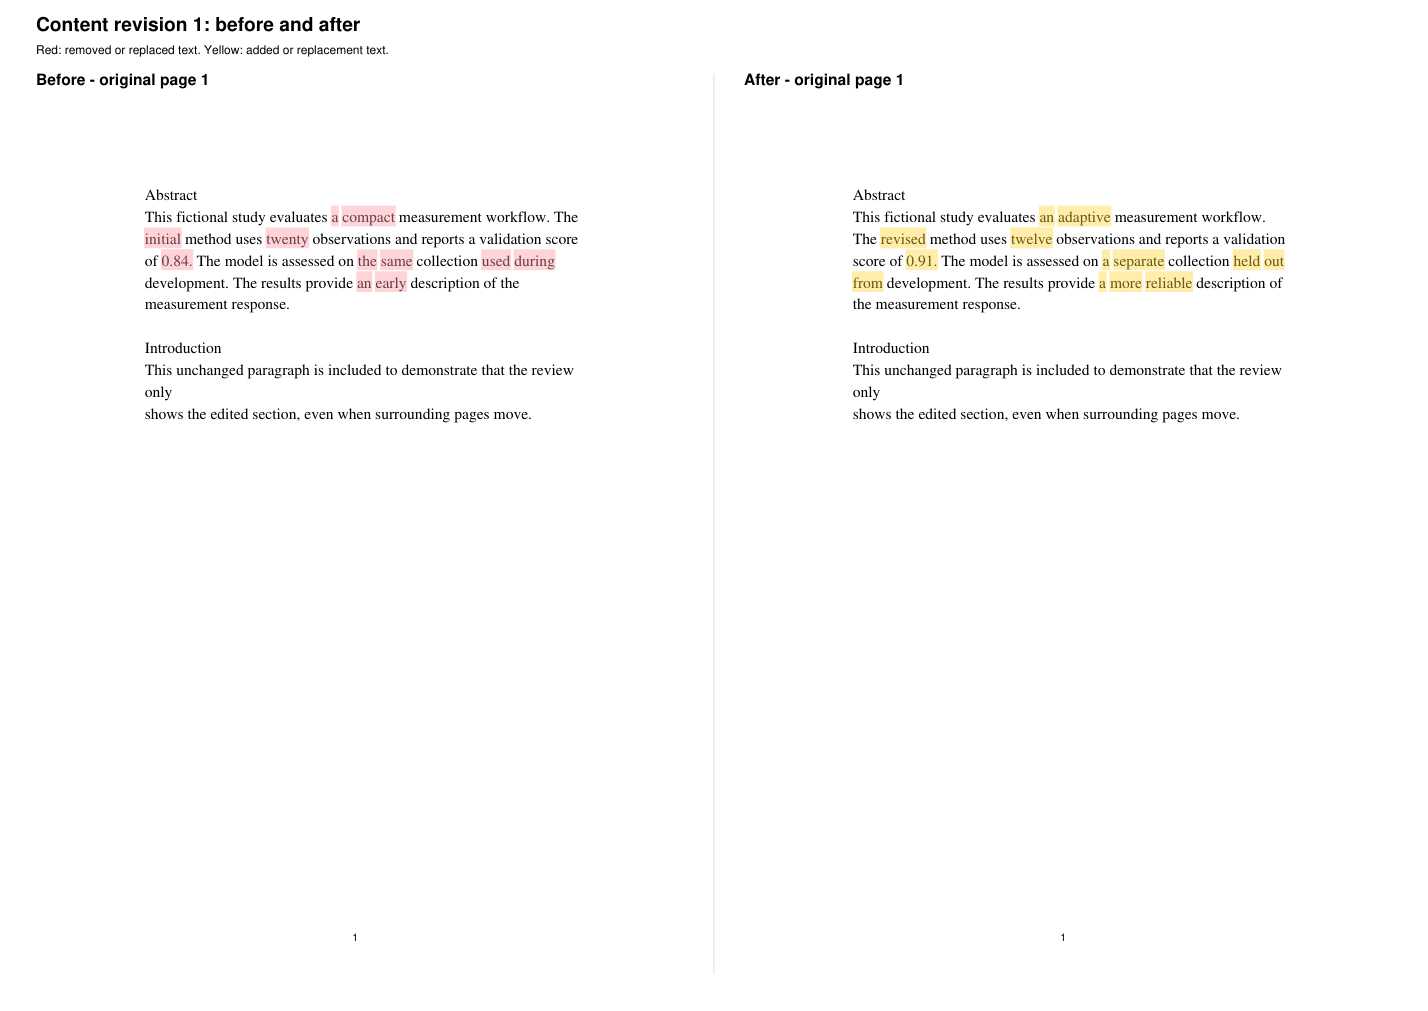
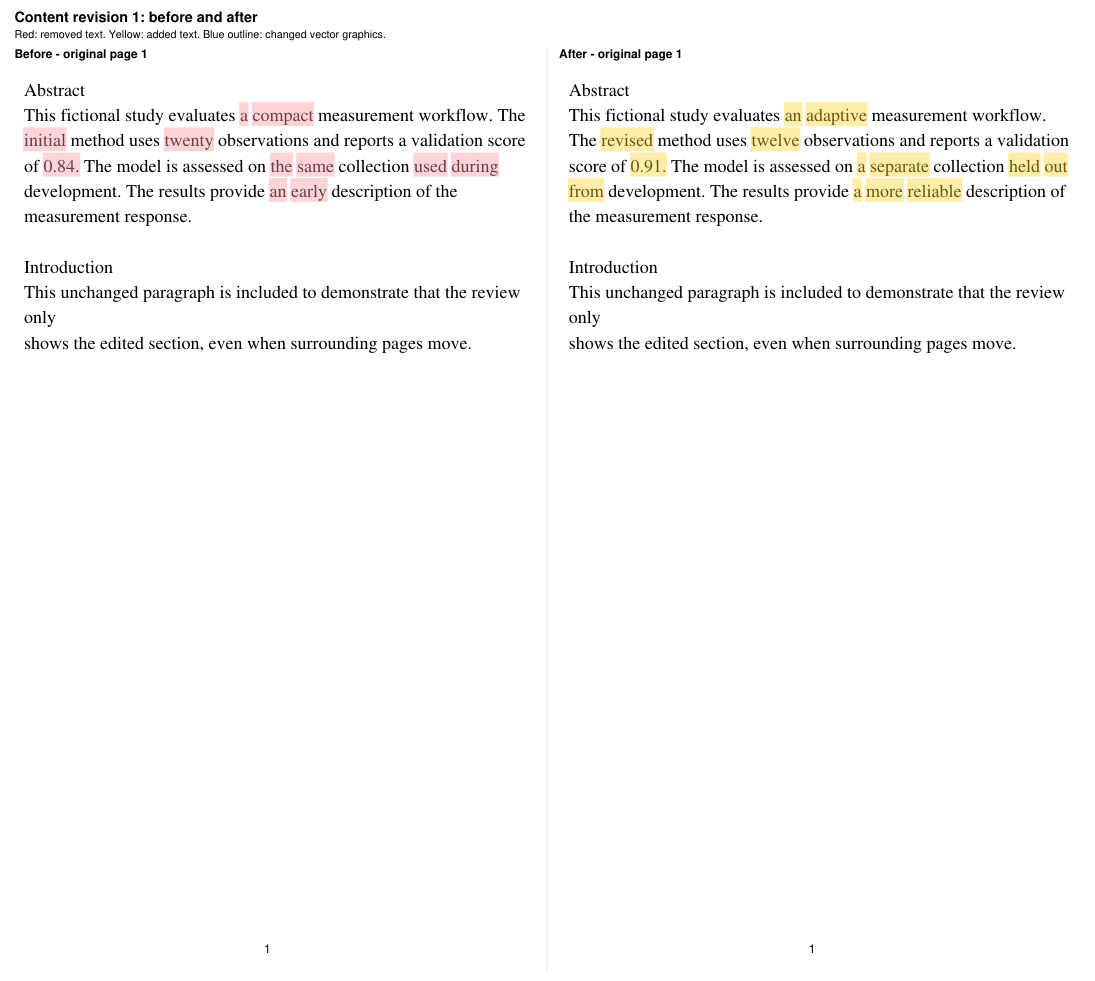
Show full pages at a consistent scale

Changed region(s): [[0.0, 0.0, 0.4658, 0.4281], [0.4968, 0.0306, 0.9936, 0.4281]]

diff --git a/build_comparison.py b/build_comparison.py
@@ -9,8 +9,9 @@ from pathlib import Path
 
 import fitz
 from backend import compare
+from graphics_diff import compare_graphics
 
-RECIPE = 'pdf-content-diff-0.6.0-full-pages'
+RECIPE = 'pdf-content-diff-0.7.0-vector-pages'
 
 
 def digest(file):
@@ -41,7 +42,7 @@ def build(old_file, new_file, output):
     old_file, new_file, output = map(Path, (old_file, new_file, output))
     if output.resolve() in (old_file.resolve(), new_file.resolve()):
         raise ValueError('Output must differ from both source PDFs')
-    fingerprint = digest(Path(__file__)) + digest(Path(__file__).with_name('backend.py'))
+    fingerprint = digest(Path(__file__)) + digest(Path(__file__).with_name('backend.py')) + digest(Path(__file__).with_name('graphics_diff.py'))
     signature = RECIPE + ':' + digest(old_file) + ':' + digest(new_file) + ':' + fingerprint
     if output.exists():
         cached = fitz.open(output)
@@ -53,10 +54,40 @@ def build(old_file, new_file, output):
             return {'output': str(output), 'cached': True, 'bytes': output.stat().st_size,
                     'seconds': round(time.perf_counter()-started, 3)}
     result = compare(str(old_file), str(new_file))
-    if not result['hasText']:
-        raise ValueError('Both PDFs must contain extractable text')
     old, new = fitz.open(old_file), fitz.open(new_file)
     docs = {'left': old, 'right': new}
+    left_graphics, right_graphics = compare_graphics(old, new)
+    if not result['hasText'] and not (left_graphics or right_graphics) and not all(
+            any(p.get_drawings() for p in doc) for doc in docs.values()):
+        raise ValueError('Both PDFs must contain extractable text or changed vector graphics')
+    components = groups(result)
+    for side, records in [('left',left_graphics),('right',right_graphics)]:
+        for record in records:
+            p = record['page']
+            nodes = {(side,p)}
+            if p < len(docs['right' if side == 'left' else 'left']):
+                nodes.add(('right' if side == 'left' else 'left',p))
+            touched = [c for c in components if c & nodes]
+            for c in touched: nodes |= c; components.remove(c)
+            components.append(nodes)
+            box = (fitz.Rect(record['rect']) + (-2,-2,2,2)) & docs[side][p].rect
+            docs[side][p].draw_rect(box,color=(.10,.40,.95),width=1.3,overlay=True)
+    components.sort(key=lambda c: min(p for _,p in c))
+    # Remove only the common outer margin, using one union across BOTH documents.
+    # The crop is independent of edits, so body text has one size on every sheet.
+    content = None
+    for doc in docs.values():
+        for source in doc:
+            boxes = [fitz.Rect(block[:4]) for block in source.get_text('blocks')]
+            boxes += [d['rect'] for d in source.get_drawings()]
+            for box in boxes:
+                if content is None: content = fitz.Rect(box)
+                else: content |= box
+    clips = {side: [(content + (-8,-8,8,8)) & p.rect if content else p.rect for p in doc]
+             for side,doc in docs.items()}
+    panel_width = max(c.width for values in clips.values() for c in values)
+    panel_height = max(c.height for values in clips.values() for c in values)
+    sheet_width, sheet_height = 2*panel_width+44, panel_height+68
     for side, doc in docs.items():
         colour = (1, .60, .64) if side == 'left' else (1, .84, .20)
         for page, marks in result[side]['marks'].items():
@@ -65,32 +96,32 @@ def build(old_file, new_file, output):
                 doc[page].draw_rect(r, color=None, fill=colour, fill_opacity=.42, overlay=True)
     review = fitz.open()
     # One document-wide scale, independent of changed-region size and page count.
-    scale = min(min(540 / page.rect.width, 728 / page.rect.height)
-                for doc in docs.values() for page in doc)
-    for index, nodes in enumerate(groups(result)):
+    scale = 1.0
+    for index, nodes in enumerate(components):
         originals = {side: sorted(p for s, p in nodes if s == side)
                      for side in ('left', 'right')}
         # Never squeeze multiple original pages into a single review sheet.
         for part in range(max(map(len, originals.values()))):
-            page = review.new_page(width=1190, height=842)
-            page.insert_text((30,26), f'Content revision {index+1}: before and after', fontname='hebo', fontsize=16)
-            page.insert_text((30,45), 'Red: removed or replaced text. Yellow: added or replacement text.', fontsize=10)
-            for side, x, label in [('left',30,'Before'), ('right',620,'After')]:
+            page = review.new_page(width=sheet_width, height=sheet_height)
+            page.insert_text((12,18), f'Content revision {index+1}: before and after', fontname='hebo', fontsize=12)
+            page.insert_text((12,32), 'Red: removed text. Yellow: added text. Blue outline: changed vector graphics.', fontsize=9)
+            for side, x, label in [('left',12,'Before'), ('right',panel_width+32,'After')]:
                 if part >= len(originals[side]):
-                    page.insert_text((x,71), f'{label} - no corresponding changed page', fontname='hebo', fontsize=13)
+                    page.insert_text((x,48), f'{label} - no corresponding changed page', fontname='hebo', fontsize=10)
                     continue
                 p = originals[side][part]
                 source = docs[side][p]
-                page.insert_text((x,71), f'{label} - original page {p+1}', fontname='hebo', fontsize=13)
-                width, height = source.rect.width*scale, source.rect.height*scale
-                left = x + (540-width)/2
-                destination = fitz.Rect(left,84,left+width,84+height)
+                page.insert_text((x,48), f'{label} - original page {p+1}', fontname='hebo', fontsize=10)
+                clip = clips[side][p]
+                width, height = clip.width*scale, clip.height*scale
+                left = x + (panel_width-width)/2
+                destination = fitz.Rect(left,56,left+width,56+height)
                 if source.get_contents():
-                    page.show_pdf_page(destination, docs[side], p)
-            page.draw_line((595,61),(595,812),color=(.8,.8,.8),width=.5)
+                    page.show_pdf_page(destination, docs[side], p,clip=clip)
+            page.draw_line((panel_width+22,40),(panel_width+22,sheet_height-8),color=(.8,.8,.8),width=.5)
     if not len(review):
         page = review.new_page(width=1190,height=842)
-        page.insert_text((30,40),'No text changes detected.',fontsize=16)
+        page.insert_text((30,40),'No text or vector graphics changes detected.',fontsize=16)
     review.set_metadata({'title':'PDF content comparison','subject':signature,
                          'keywords':'Ignore margin line numbers, page numbers and text reflow'})
     # Subset original fonts and keep vector text, with no page rasterization.
@@ -114,7 +145,7 @@ def build(old_file, new_file, output):
     page_count = len(review)
     review.close(); old.close(); new.close()
     return {'output':str(output),'cached':False,'bytes':output.stat().st_size,
-            'pages':page_count,'hunks':len(result['hunks']),
+            'pages':page_count,'hunks':len(result['hunks']),'graphicsChanges':len(left_graphics)+len(right_graphics),
             'seconds':round(time.perf_counter()-started,3)}
 
 

diff --git a/graphics_diff.py b/graphics_diff.py
@@ -1,0 +1,64 @@
+"""Translation-invariant comparison of connected vector drawing groups."""
+import collections
+import hashlib
+import json
+import fitz
+
+
+def drawings(doc):
+    records = []
+    for number, page in enumerate(doc):
+        paths = page.get_drawings()
+        # Dense scientific plots may contain tens of thousands of overlapping
+        # paths. Compare their page-level vector group in linear time instead
+        # of running a quadratic connectivity sweep. A whole-page translation
+        # remains invariant; independent figure movements can be reported.
+        dense = len(paths) > 2000
+        parents = list(range(len(paths)))
+        if dense: parents = [0] * len(paths)
+        def root(i):
+            while parents[i] != i:
+                parents[i] = parents[parents[i]]; i = parents[i]
+            return i
+        # Sweep by x to avoid comparing distant objects on the same page.
+        active = []
+        for i in ([] if dense else sorted(range(len(paths)), key=lambda i: paths[i]['rect'].x0)):
+            box = paths[i]['rect'] + (-3,-3,3,3)
+            active = [j for j in active if paths[j]['rect'].x1+3 >= box.x0]
+            for j in active:
+                if box.intersects(paths[j]['rect'] + (-3,-3,3,3)):
+                    a, b = root(i), root(j)
+                    parents[a] = b
+            active.append(i)
+        clusters = collections.defaultdict(list)
+        for i, item in enumerate(paths): clusters[root(i)].append(item)
+        for cluster in clusters.values():
+            box = fitz.Rect(cluster[0]['rect'])
+            for item in cluster[1:]: box |= item['rect']
+            def normalize(value):
+                if isinstance(value, fitz.Point): return [round(value.x-box.x0,2),round(value.y-box.y0,2)]
+                if isinstance(value, fitz.Rect): return [round(value.x0-box.x0,2),round(value.y0-box.y0,2),round(value.x1-box.x0,2),round(value.y1-box.y0,2)]
+                if isinstance(value, fitz.Quad): return normalize([value.ul,value.ur,value.ll,value.lr])
+                if isinstance(value, (list,tuple)): return [normalize(v) for v in value]
+                if isinstance(value,float): return round(value,2)
+                return value
+            signatures = []
+            for item in cluster:
+                fields = {k:normalize(item.get(k)) for k in ('items','type','color','fill','width','dashes','lineCap','lineJoin','closePath','even_odd','fill_opacity','stroke_opacity')}
+                signatures.append(json.dumps(fields,sort_keys=True))
+            signature = hashlib.sha256(json.dumps(sorted(signatures)).encode()).hexdigest()
+            records.append({'page':number,'rect':list(box),'signature':signature})
+    return records
+
+
+def compare_graphics(old, new):
+    left, right = drawings(old), drawings(new)
+    common = collections.Counter(r['signature'] for r in left) & collections.Counter(r['signature'] for r in right)
+    def remaining(records):
+        available = common.copy(); result = []
+        for record in records:
+            key = record['signature']
+            if available[key]: available[key] -= 1
+            else: result.append(record)
+        return result
+    return remaining(left), remaining(right)

diff --git a/tests/test_diff.py b/tests/test_diff.py
@@ -86,7 +86,7 @@ class PDFChecks(unittest.TestCase):
     def test_no_changes_and_no_text(self):
         pdf(self.old,'Same text');pdf(self.new,'Same text')
         build(self.old,self.new,self.out)
-        with fitz.open(self.out) as doc:self.assertIn('No text changes',doc[0].get_text())
+        with fitz.open(self.out) as doc:self.assertIn('No text or vector graphics changes',doc[0].get_text())
         blank=self.root/'blank.pdf';pdf(blank,'')
         with self.assertRaises(ValueError):build(self.old,blank,self.root/'blank-review.pdf')
 
@@ -110,7 +110,25 @@ class PDFChecks(unittest.TestCase):
                         sizes.extend(s['size'] for s in line['spans'] if 'bottom context' in s['text'])
             self.assertEqual(len(sizes),6)
             self.assertLess(max(sizes)-min(sizes),0.001)
-            self.assertLess(max(sizes),12)
+            self.assertAlmostEqual(max(sizes),12,places=3)
+
+    def test_vector_geometry_color_and_movement(self):
+        def drawing(file,offset=0,width=80,color=(1,0,0),text=True):
+            doc=fitz.open();page=doc.new_page()
+            if text: page.insert_text((100,80),'Unchanged text')
+            page.draw_rect(fitz.Rect(100+offset,150+offset,100+offset+width,230+offset),color=color,fill=color)
+            doc.save(file);doc.close()
+        drawing(self.old);drawing(self.new,offset=50)
+        self.assertEqual(build(self.old,self.new,self.out)['graphicsChanges'],0)
+        drawing(self.new,width=90)
+        self.assertEqual(build(self.old,self.new,self.out)['graphicsChanges'],2)
+        drawing(self.new,color=(0,1,0))
+        self.assertEqual(build(self.old,self.new,self.out)['graphicsChanges'],2)
+        drawing(self.old,text=False);drawing(self.new,width=90,text=False)
+        info=build(self.old,self.new,self.out)
+        self.assertEqual(info['graphicsChanges'],2)
+        with fitz.open(self.out) as doc:
+            self.assertGreater(len(doc[0].get_drawings()),2)
 
 
 if __name__=='__main__':unittest.main()

diff --git a/scripts/package_vsix.py b/scripts/package_vsix.py
@@ -17,6 +17,6 @@ content = '''<?xml version="1.0" encoding="utf-8"?><Types xmlns="http://schemas.
 with ZipFile(target, 'w', ZIP_DEFLATED) as z:
     z.writestr('extension.vsixmanifest', manifest)
     z.writestr('[Content_Types].xml', content)
-    for name in ['package.json','extension.js','auto_refresh.js','backend.py','build_comparison.py','README.md','README.zh-CN.md','CHANGELOG.md','LICENSE','requirements.txt','docs/preview.png']:
+    for name in ['package.json','extension.js','auto_refresh.js','backend.py','graphics_diff.py','build_comparison.py','README.md','README.zh-CN.md','CHANGELOG.md','LICENSE','requirements.txt','docs/preview.png']:
         z.write(root/name,'extension/'+name)
 print(target)

diff --git a/README.md b/README.md
@@ -72,8 +72,7 @@ This project has not been published to the VS Code Marketplace.
 
 ## Scope and limitations
 
-This is a **text change** tool, not a pixel diff. It does not detect image-only,
-vector-only, font, color or layout edits, and it does not perform OCR. Complex
+This is a **text change** tool, not a pixel diff. It does not detect raster-image-only, font or layout edits, and it does not perform OCR. Complex
 multi-column reading order, rotated pages and mathematical glyph extraction can
 produce imperfect alignment. Review important equations against the source.
 
@@ -110,3 +109,7 @@ Contributions and reproducible synthetic bug reports are welcome.
 ## Automatic refresh
 
 After comparing two PDFs, the extension watches both inputs and rebuilds the review after writes settle (default 1.5 seconds). Keep the review open in the recommended PDF viewer; it reloads when the generated PDF is replaced. Background refresh does not steal focus. The last pair is restored when the same workspace reopens. Disable `pdfContentDiff.autoRefresh` or adjust `pdfContentDiff.refreshDelay` in Settings. LaTeX must still compile the revised source PDF. Source PDFs are never modified.
+
+## Vector graphics and compact layout
+
+Vector drawing geometry, stroke and fill changes are outlined in blue. Identical translated drawing groups are reconciled across pages. Dense pages with more than 2,000 paths are compared as a single group; independent figure movements on those pages may be flagged. Raster image changes, text rendered inside images, clipping-only changes and transparency-group effects are not covered. Both documents share one content-bounds crop, derived from all pages rather than edited regions. Outer whitespace is trimmed, body text retains its original point size, and every sheet has the same dimensions.

diff --git a/README.zh-CN.md b/README.zh-CN.md
@@ -38,7 +38,7 @@ python build_comparison.py older.pdf newer.pdf comparison.pdf
 
 ## 能力边界
 
-本工具比较文字，不检测纯图片、矢量图形、字体或版式的变化，也不做 OCR。
+本工具比较文字与矢量绘图，不检测位图、字体或版式的变化，也不做 OCR。
 多栏阅读顺序、旋转页面和部分数学符号可能影响匹配。
 行号识别采用位置启发式；字母之间的连字符会归一化，仅连字符变化可能被忽略。
 达到长度阈值的完全相同文本移动会被过滤。重要公式仍需人工核对原稿。
@@ -49,3 +49,7 @@ python build_comparison.py older.pdf newer.pdf comparison.pdf
 ## 自动刷新
 
 首次比较后会监听两份输入 PDF，文件停止变化后等待约 1.5 秒重新生成对比。使用推荐的 PDF 阅读扩展打开对比文件即可自动重载，后台刷新不会抢焦点。同一工作区重启后恢复监听。设置 `pdfContentDiff.autoRefresh` 可关闭，`pdfContentDiff.refreshDelay` 可调整等待时间。修改 LaTeX 后仍需先编译生成新稿 PDF；工具不修改源 PDF。
+
+## 矢量图与紧凑页面
+
+矢量图形的形状、描边和填色变化使用蓝框标记，完全相同的平移图形组会过滤。超过 2,000 个路径的密集图页按整体组比较，页内多幅图分别移动也可能被标记。本功能不检测位图变化、图片内文字、仅裁切变化或透明度组效果。两份文档所有页共用一个内容边界，只移除统一的外围留白；每页尺寸和缩放一致，保留原字号。

diff --git a/RELEASE_NOTES.md b/RELEASE_NOTES.md
@@ -1,1 +1,1 @@
-Full-page comparisons at one document-wide scale. Each sheet contains at most one original page per side; only changed words are highlighted. Automatic refresh remains supported.
+Vector drawing changes are outlined in blue. Common outer whitespace is removed using one document-wide content boundary; body text retains its original point size. Dense vector pages are compared as a whole group. Raster image changes are outside the current scope.

diff --git a/CHANGELOG.md b/CHANGELOG.md
@@ -1,3 +1,8 @@
+# 0.7.0
+
+- Detect changed vector drawing groups and outline them in blue.
+- Trim shared outer whitespace while retaining one uniform layout and original font sizes.
+
 # 0.6.0
 
 - Show complete changed pages at one document-wide scale.
